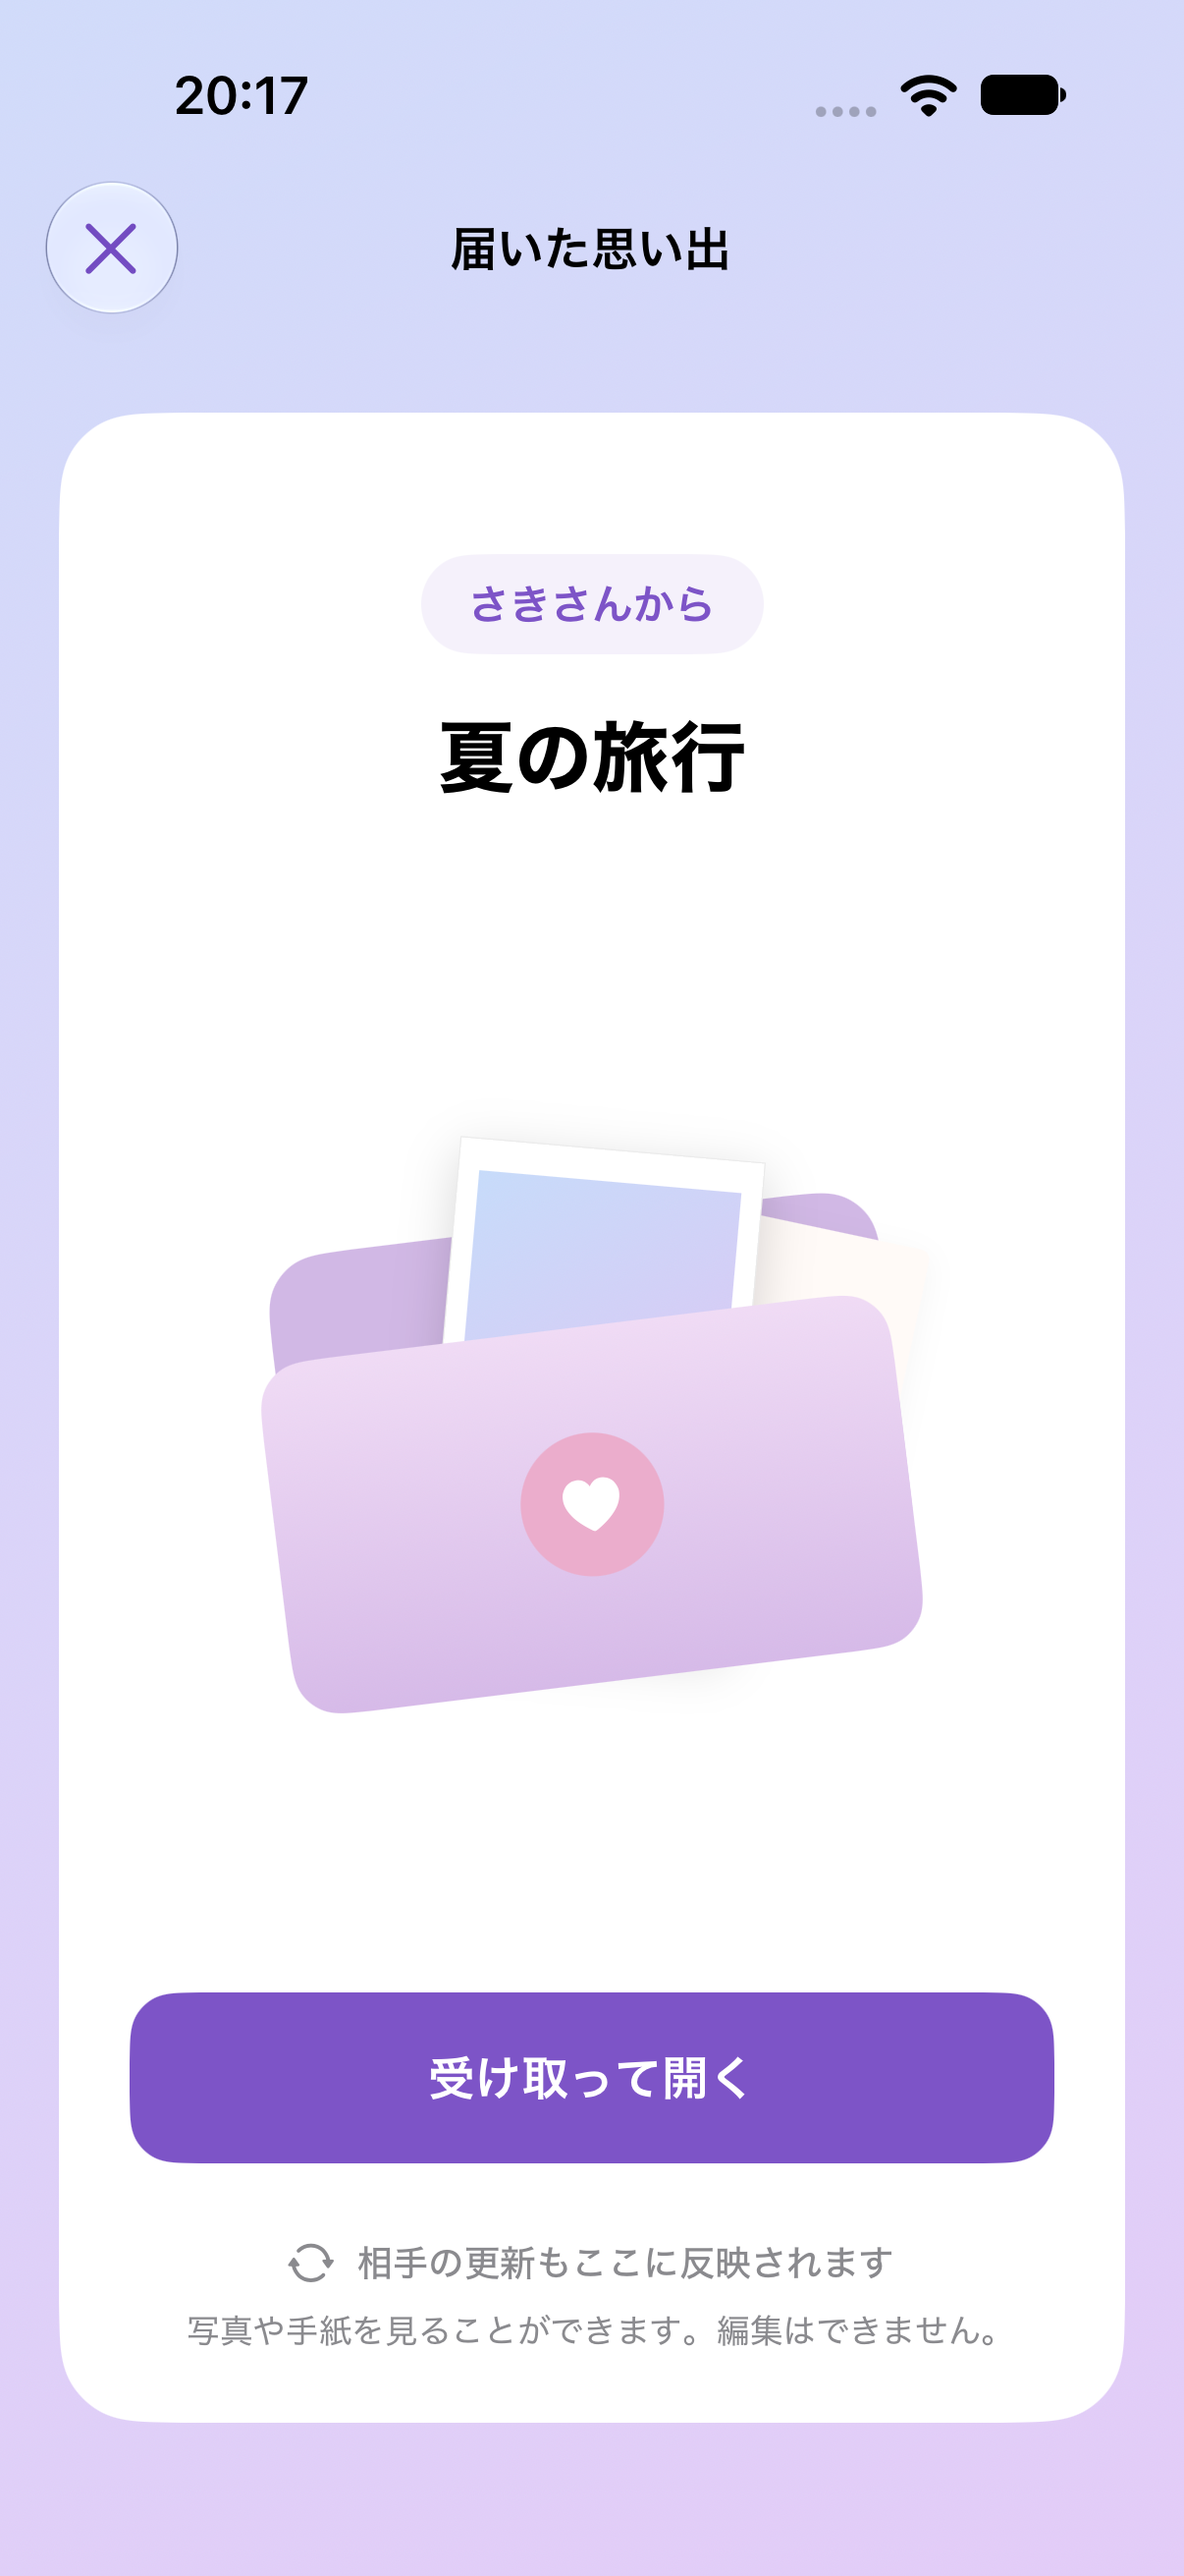
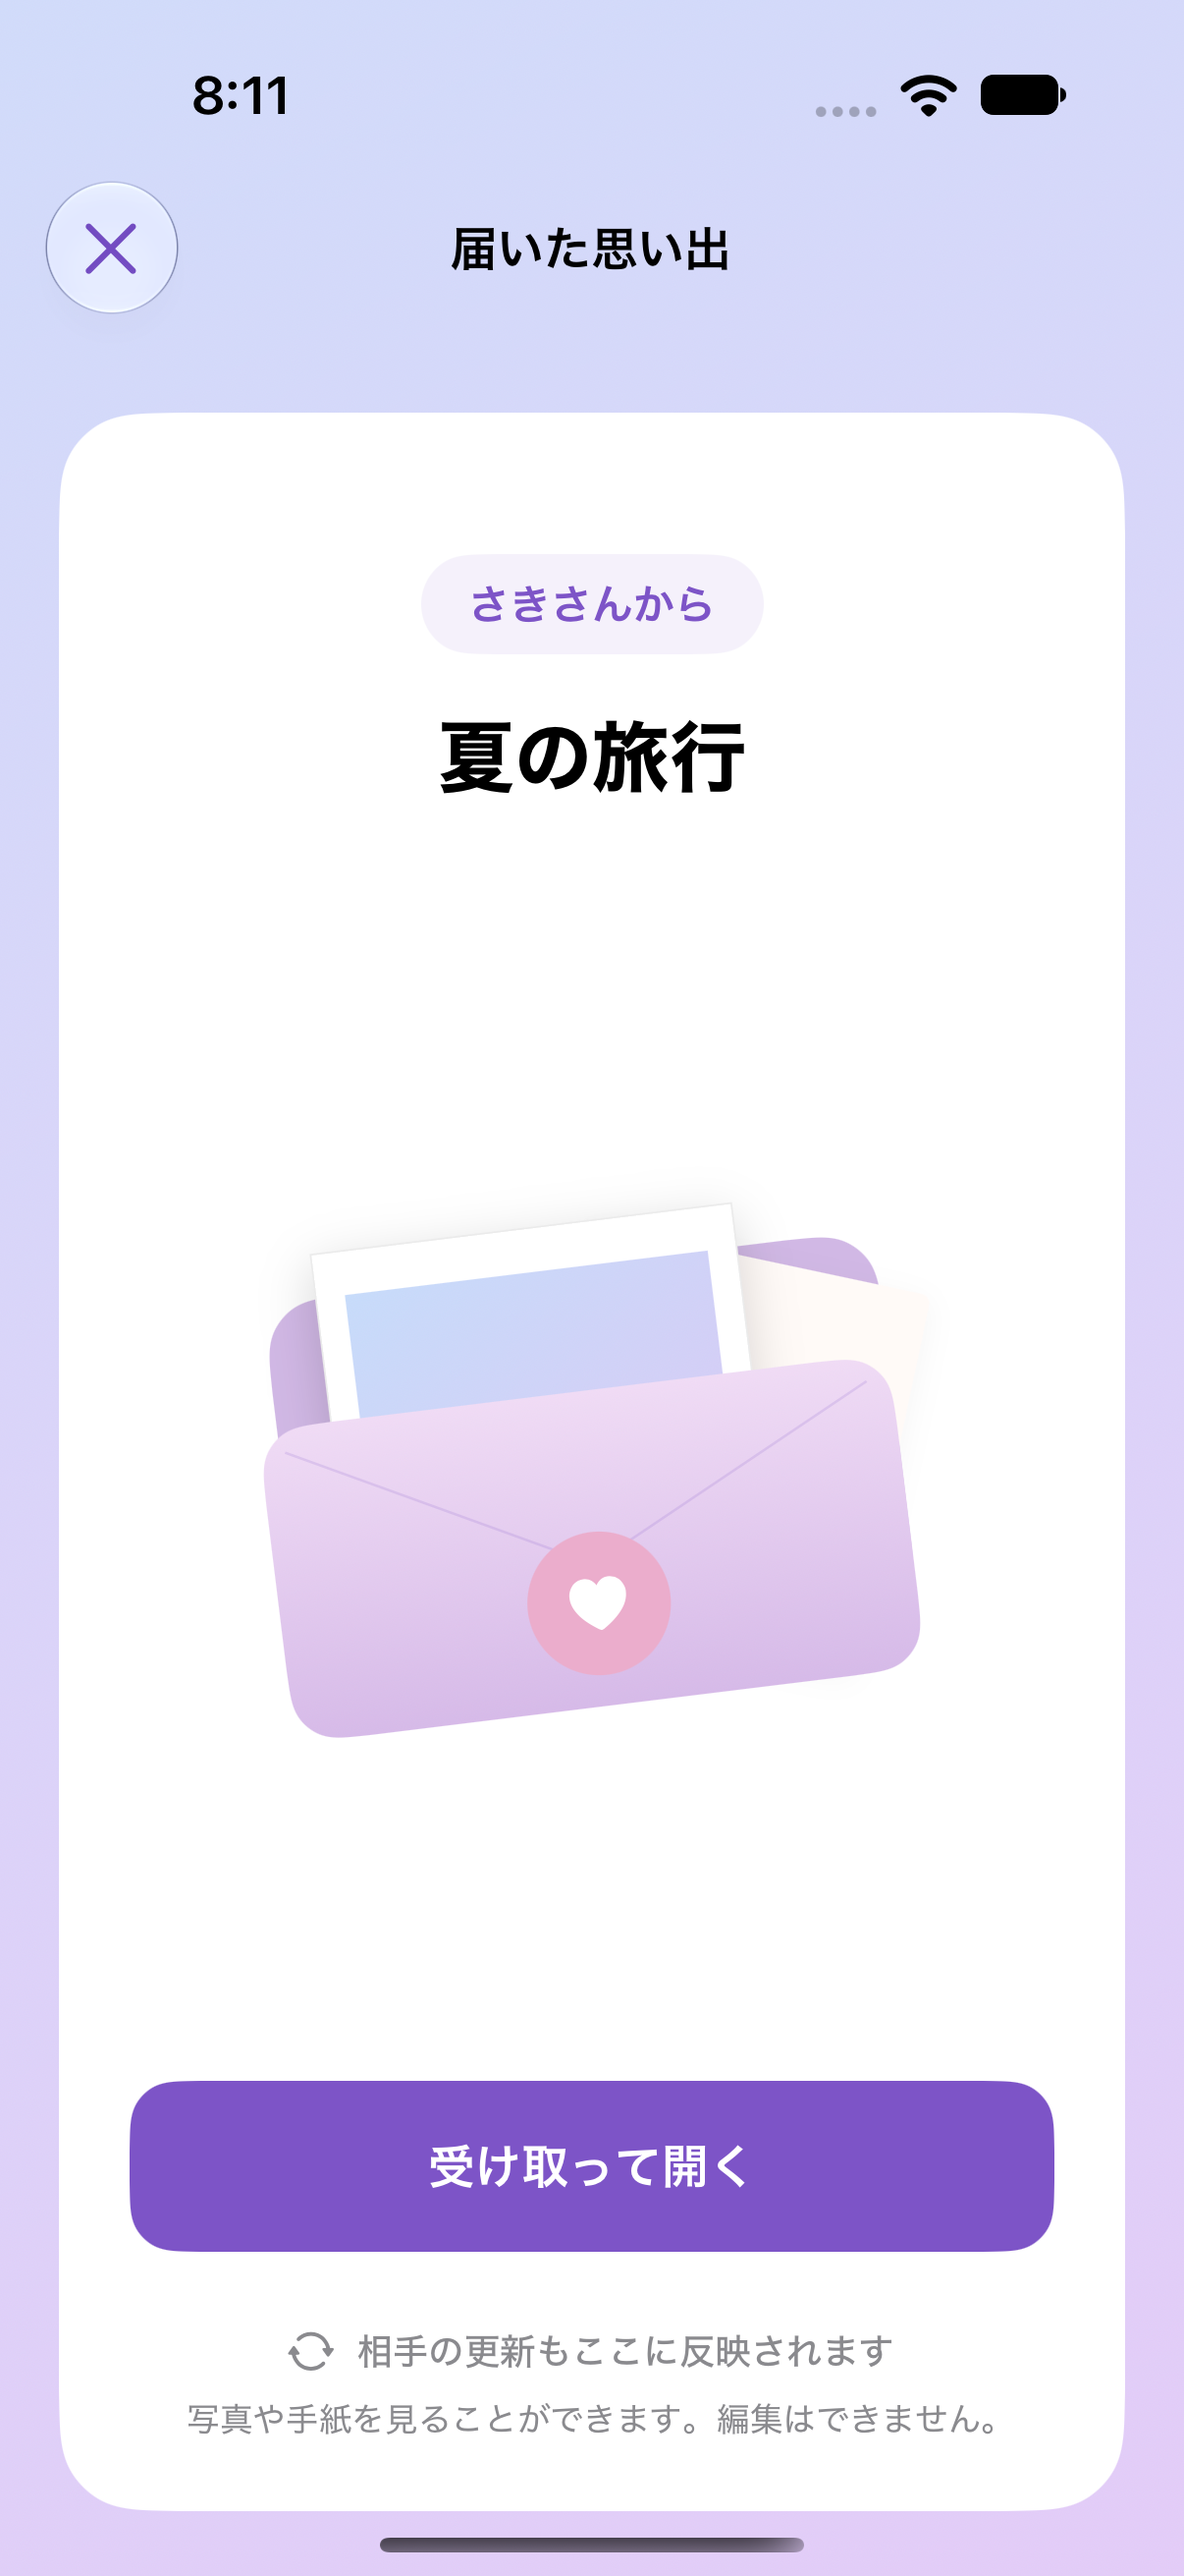
Restore cheki sliding out from inside the invitation envelope

Changed region(s): [[0.0307, 0.7723, 0.9511, 1.0], [0.2148, 0.4325, 0.7977, 0.6796], [0.1534, 0.0309, 0.2454, 0.0618]]

diff --git a/sotsugyo/View/FolderInvitationView.swift b/sotsugyo/View/FolderInvitationView.swift
@@ -57,7 +57,7 @@ struct FolderInvitationView: View {
                             }
                             .padding(.top, 24)
                             GiftEnvelope(opened: opened, title: invitation.folder.title, coverImage: preview.photos.first?.image)
-                                .scaleEffect(0.85).frame(height: 310)
+                                .scaleEffect(0.85).frame(height: 340)
                                 .accessibilityIdentifier(preview.photos.isEmpty ? "invite.envelope" : "invite.cover")
                             Label("受け取りました", systemImage: "checkmark.circle.fill")
                                 .font(.headline).foregroundStyle(GiftPalette.purpleText)
@@ -167,7 +167,7 @@ struct FolderInviteShareView: View {
                         Text(folderName)
                             .font(.system(size: 28, weight: .heavy, design: .rounded))
                             .multilineTextAlignment(.center).padding(.top, 20)
-                        GiftEnvelope(opened: true, title: folderName, coverImage: coverImage).scaleEffect(0.85).frame(height: 310)
+                        GiftEnvelope(opened: true, title: folderName, coverImage: coverImage).scaleEffect(0.85).frame(height: 340)
                         Text("写真に音楽や手紙を添えて、\nリンクで送れます。")
                             .font(.subheadline).multilineTextAlignment(.center)
                         if model.isWorking { ProgressView("リンクを準備しています…") }
@@ -227,7 +227,7 @@ private struct GiftEnvelope: View {
     var body: some View {
         ZStack {
             RoundedRectangle(cornerRadius: 24).fill(Color(red: 0.82, green: 0.72, blue: 0.9))
-                .frame(width: 246, height: 162).rotationEffect(.degrees(-7)).offset(y: 36)
+                .frame(width: 246, height: 162).rotationEffect(.degrees(-7)).offset(y: opened ? 89 : 36)
             VStack(alignment: .leading, spacing: 12) {
                 Image(systemName: "heart").font(.system(size: 16, weight: .semibold)).foregroundStyle(.pink.opacity(0.6))
                 ForEach(0..<3) { _ in Capsule().fill(GiftPalette.purple.opacity(0.15)).frame(height: 2) }
@@ -257,19 +257,30 @@ private struct GiftEnvelope: View {
             .frame(width: 170, height: 270)
             .background(.white)
             .overlay { Rectangle().strokeBorder(.black.opacity(0.08), lineWidth: 0.7) }
-            .rotationEffect(.degrees(opened ? -7 : 5))
-            .offset(x: opened ? -12 : 0, y: opened ? -40 : 32).scaleEffect(opened ? 1.04 : 0.72)
+            .rotationEffect(.degrees(-7))
+            .offset(x: -12, y: opened ? -74 : 74)
             .shadow(color: .black.opacity(0.16), radius: 10, y: 6)
-            .zIndex(opened ? 1 : 0)
+            .mask {
+                // The inserted portion stays inside the pocket instead of showing below it.
+                Rectangle().frame(width: 360, height: 500).offset(y: -140)
+            }
+            // Keep the pocket in front throughout the animation, so the cheki slides out of it.
             RoundedRectangle(cornerRadius: 20)
                 .fill(LinearGradient(colors: [Color(red: 0.94, green: 0.86, blue: 0.96), Color(red: 0.84, green: 0.73, blue: 0.91)], startPoint: .top, endPoint: .bottom))
-                .frame(width: 254, height: 142).overlay {
+                .frame(width: 254, height: 126).overlay {
+                    GeometryReader { geometry in
+                        Path { path in
+                            path.move(to: CGPoint(x: 10, y: 10))
+                            path.addLine(to: CGPoint(x: geometry.size.width / 2, y: geometry.size.height * 0.55))
+                            path.addLine(to: CGPoint(x: geometry.size.width - 10, y: 10))
+                        }
+                        .stroke(GiftPalette.purple.opacity(0.16), lineWidth: 1)
+                    }
                     Image(systemName: "heart.fill")
                         .font(.system(size: 23, weight: .medium)).foregroundStyle(.white)
                         .padding(16).background(Color(red: 0.92, green: 0.68, blue: 0.80), in: Circle())
-                        .offset(y: opened ? 28 : 0)
-                }.rotationEffect(.degrees(-7)).offset(y: opened ? 102 : 68)
-                .opacity(opened ? 0.75 : 1)
+                        .offset(y: 22)
+                }.rotationEffect(.degrees(-7)).offset(y: opened ? 119 : 68)
         }
         .accessibilityElement(children: .ignore)
         .accessibilityLabel(coverImage != nil ? "\(title)のチェキを添えた封筒" : opened ? "開いた招待の封筒" : "招待の封筒")

diff --git a/docs/verification/invite-links/README.md b/docs/verification/invite-links/README.md
@@ -1,16 +1,16 @@
 # 招待リンク・開封アニメーションの確認
 
-確認日: 2026-10-06〜2026-10-08（日本時間）
+確認日: 2026-10-06〜2026-10-11（日本時間）
 
 ## 画面
 
 初期企画資料の「チェキ×音楽×プレゼント」に合わせ、水色〜紫の背景と白い台紙、太めの文字、チェキと便箋を入れた封筒で送受信画面を統一しています。送信画面には読み込み済みのフォルダ表紙を表示し、受信画面は受け取り成功後に開封とキラキラの演出を表示します。受信画面では参加完了後にフォルダ一覧と同じ順序の1枚目のチェキを読み込み、封筒のカードに表示します。写真は1枚だけ読み込み、写真なし・読込失敗時は音符の表示を残してフォルダを開けます。参加前の写真取得は行いません。
 
-2026-10-08: 封筒のチェキは保存画像に含まれる白枠・手書き装飾をそのまま表示します。外側に重ねていた白いカードと重複するタイトルを外し、縦長の170×270の表示領域に拡大しました。開封後はチェキ全体を封筒の手前に出し、輪郭に薄い縁と影を付け、下側の余白まで確認できるようにしています。送信画面・受信画面に共通で適用しています。
+2026-10-08: 封筒のチェキは保存画像に含まれる白枠・手書き装飾をそのまま表示します。外側に重ねていた白いカードと重複するタイトルを外し、縦長の170×270の表示領域に拡大しました。チェキの輪郭には薄い縁と影を付けています。2026-10-11には封筒から取り出す印象を戻すため、チェキは終始ポケットの背面で上へ移動するよう変更しました。開封後は白い下余白の大部分が見え、下端だけが封筒の口に残ります。前面の透過をなくし、折り線を加えています。送信画面・受信画面に共通で適用しています。
 
 操作は「リンクで送る」「受け取って開く」「思い出を見る」、一覧は「届いた思い出」と表示します。更新の同期・閲覧専用・リンクの公開範囲の説明は残しています。受信画面は開封前後でボタン位置を維持し、共有内容は便箋とチェキの形で表示します。
 
-Xcode 27.2 beta 2 / iPhone 18 Pro / iOS 27.0 の専用シミュレーター「PicTune Model Review」、2026-10-08の送受信画像は「PicTune Auth Tests」。写真・送り主名は確認用の架空データです。
+Xcode 27.2 beta 2 / iPhone 18 Pro / iOS 27.0 の専用シミュレーター「PicTune Model Review」、2026-10-11の送受信画像は「PicTune Auth Tests」。写真・送り主名は確認用の架空データです。
 
 | 招待を受け取る | 開封時の演出 | 招待リンクを送る |
 | --- | --- | --- |
@@ -32,6 +32,7 @@ Xcode 27.2 beta 2 / iPhone 18 Pro / iOS 27.0 の専用シミュレーター「Pi
 - 2026-10-07: 初期企画資料に合わせた送受信画面・共有内容の調整後、招待作成・無効化、開封・手紙の同期、期限切れ、通信失敗のUIテスト4件が成功。送信表紙、チェキと便箋の開封、文章の折り返しを確認し、掲載画像4枚を更新。ダークモードの受信画面も確認し、文字色調整後にも送信・開封の2件を再実行し成功。
 - 2026-10-07: 受け取り後の1枚目のチェキ表示を追加。関連単体テスト8件、UIテスト3件が成功。先頭画像だけの読み込み、写真削除による表紙のクリア、参加前・参加失敗時は写真を表示しないこと、写真なし・画像取得失敗時も手紙を開けることを確認。最新の開封画像を掲載。
 - 2026-10-08: チェキの形を明確にする調整後、署名付きビルドと送信・開封のUIテスト2件が成功。縦長の輪郭、下側の余白、封筒とハートの重なり、受け取り後の遷移と手紙の同期を確認。送受信画像3枚を更新。
+- 2026-10-11: 封筒から滑り出す重なり・位置・折り線・挿入部分のマスクを調整。最終の署名付きビルドと送信・開封のUIテスト2件が成功。開封前後の画面と録画で、閉封時の下方向のはみ出し解消、口元から現れるチェキ、送信・受信の表示を確認。スクリーンショット3枚を更新し、通常の確認用シミュレーターにも反映。実機での動きは未確認。
 - `git diff --check` 成功。
 - 2026-10-07: Googleログインで「ようこそ」に戻る原因を、署名なしの検証ビルドによるKeychainエラー（`SecItemCopyMatching -34018`）と確認。通常の署名付きビルドへ入れ替え、ユーザー操作によるGoogleログイン成功、実際の写真一覧・送信画面のチェキ表示、最終ビルドへの更新・再起動後のログイン維持を確認。FirebaseUIの結果通知・画面終了・失敗理由の表示を実装し、ログインシートが閉じた後に招待を再開するよう変更。関連単体14件が成功（Keychainの保存・読み出し、成功・失敗・キャンセル・未完了、Googleエラーの詳細表示、既存の招待復帰など）。実際の個人写真を含むスクリーンショットはリポジトリに掲載していません。
 
